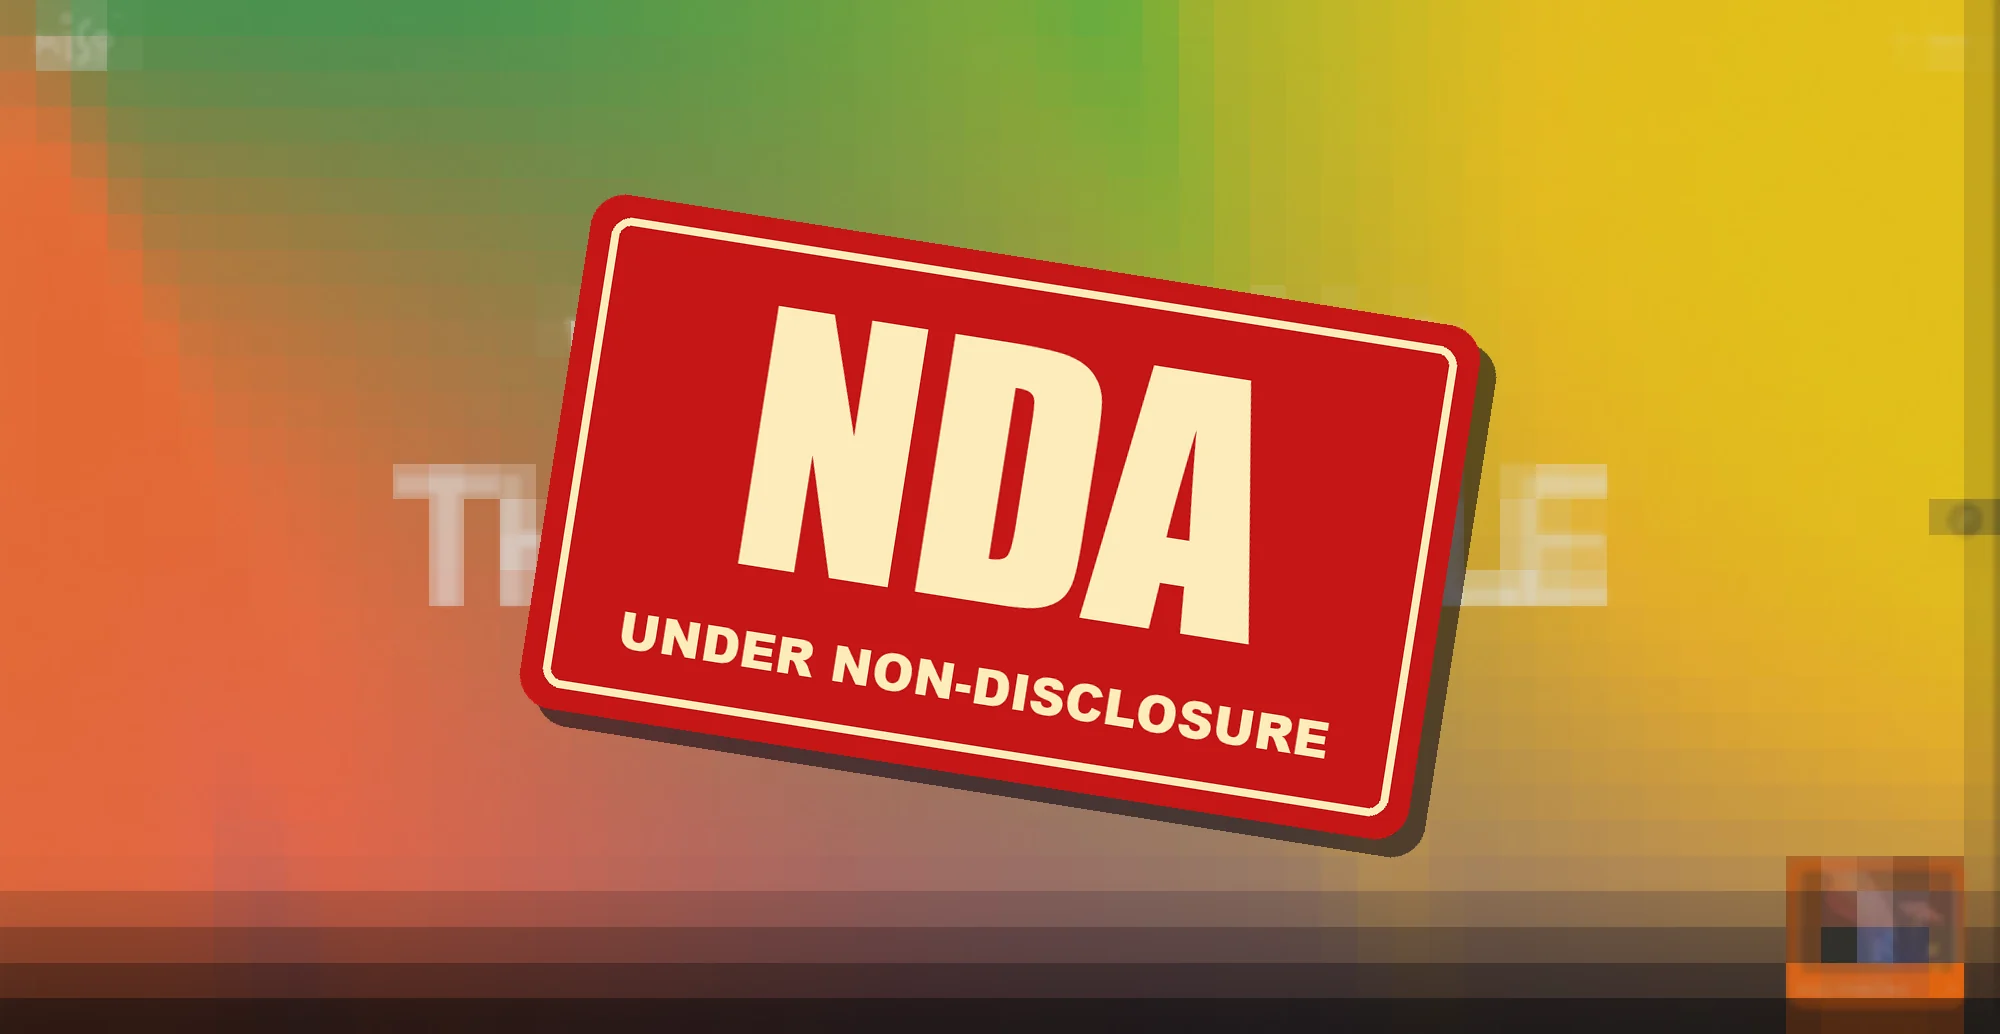
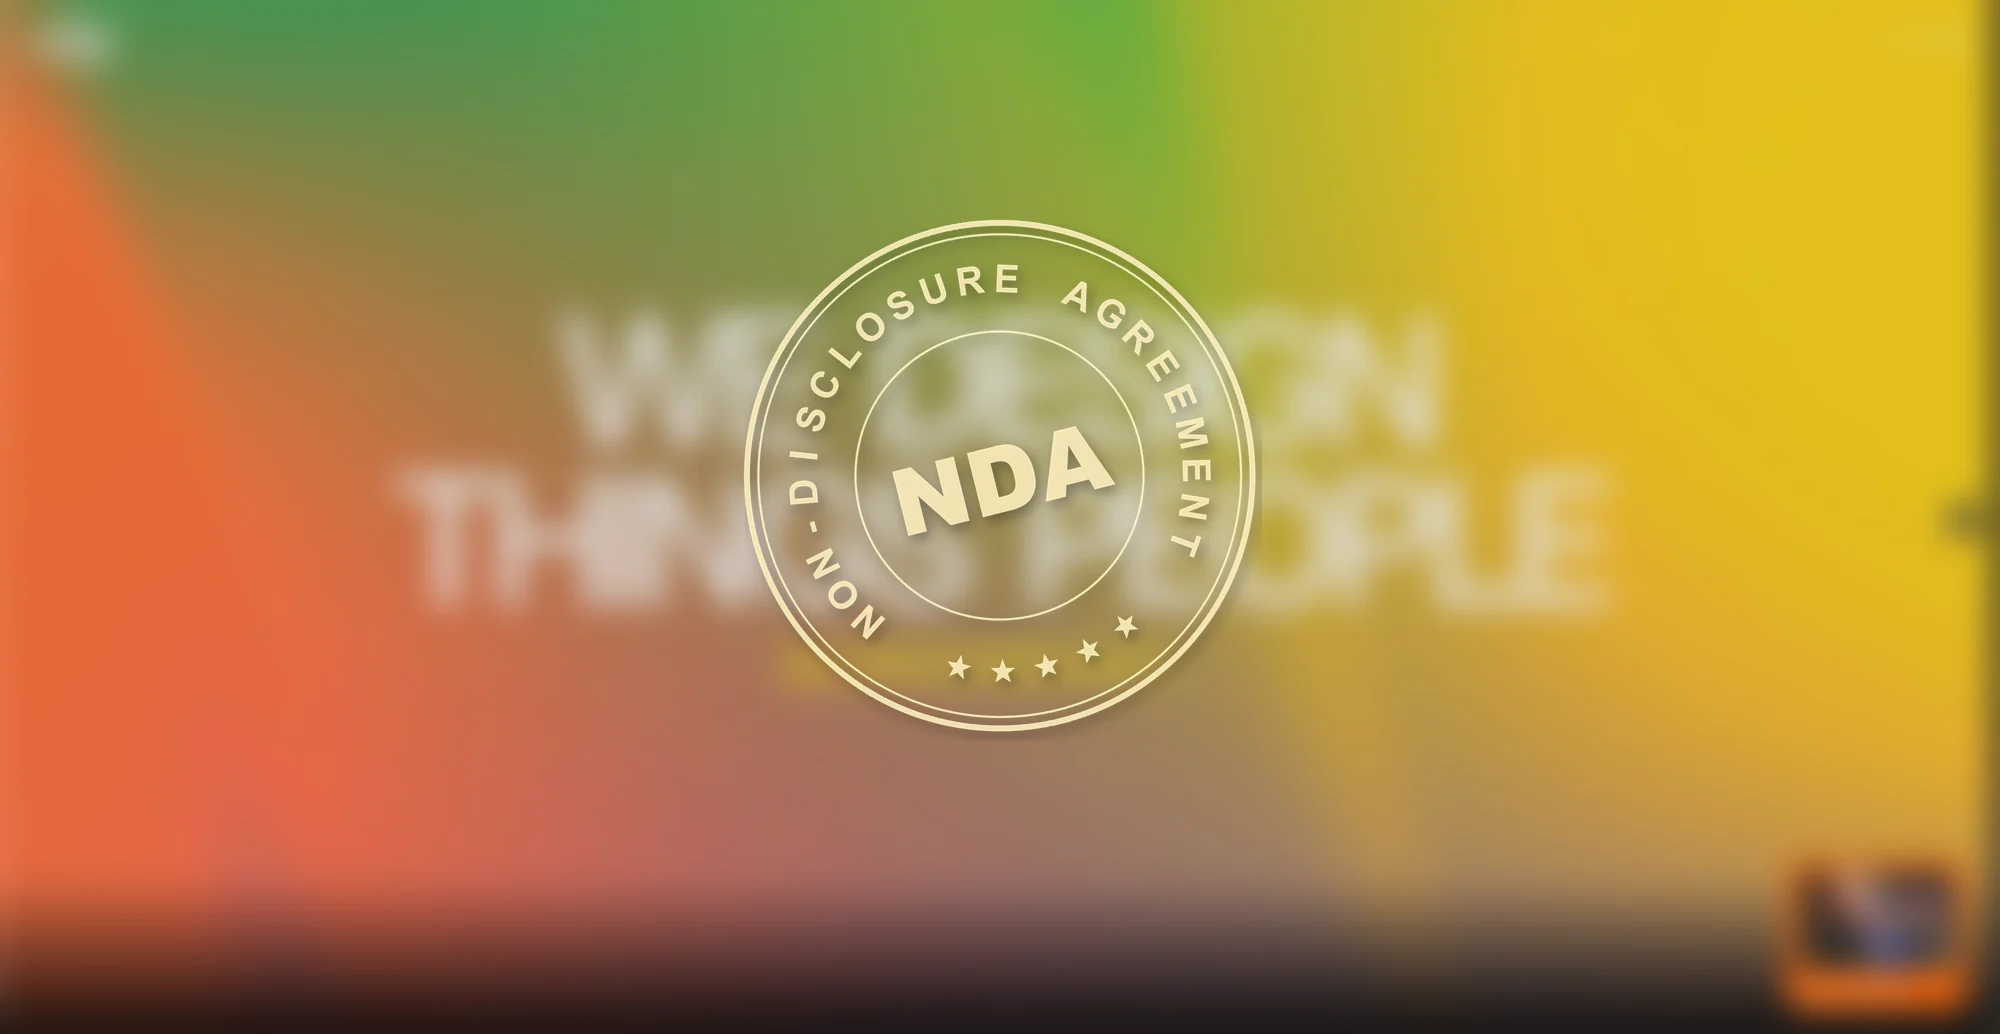
NDA covers: blurred instead of pixelated, with a round cream seal

diff --git a/js/sprite.js b/js/sprite.js
@@ -14,7 +14,7 @@
     // below picks the frames that make two readable steps: stride, back leg lifting, legs passing,
     // reaching out again; then the same with the other arm forward.
     main: {
-      src: "assets/character/main.webp?v=1791397856", cols: 8,
+      src: "assets/character/main.webp?v=1791398054", cols: 8,
       anims: {
         idle: [0], walk: [3, 6, 1, 2, 8, 9, 13, 10],
         front: [14], front34: [15], back: [16], relaxed: [17], stride: [18], wave: [19], cheer: [20], sit: [21],
@@ -22,14 +22,14 @@
     },
     // the drop down the drain: looks down the manhole, steps off, falls, lands, fixes his glasses, grins
     drain: {
-      src: "assets/character/drain.webp?v=1791397856", cols: 8,
+      src: "assets/character/drain.webp?v=1791398054", cols: 8,
       anims: {
         peer: [0, 1, 2], stepoff: [3, 4, 5], fallStart: range(6, 11), fall: range(12, 23), fallEnd: [24, 25],
         land: range(26, 31), smile: [32], glasses: [33], stand: [34], grin: [35],
       },
     },
     // stairs: climbing (0-7) and coming down (8-15); picked by cell, see CLIMB in js/main.js
-    stairs: { src: "assets/character/stairs.webp?v=1791397856", cols: 8, anims: { climb: range(0, 7), descend: range(8, 15) } },
+    stairs: { src: "assets/character/stairs.webp?v=1791398054", cols: 8, anims: { climb: range(0, 7), descend: range(8, 15) } },
   };
   const FPS = { walk: 9, run: 13 };      // walk-cycle frames per second (run = scrolling fast)
   // he rises a little as his legs pass under him: lift per cycle frame, in box units (negative = up)

diff --git a/index.html b/index.html
@@ -10,7 +10,7 @@
   <link rel="preconnect" href="https://api.fontshare.com" />
   <link href="https://api.fontshare.com/v2/css?f[]=satoshi@400,500,700,900&display=swap" rel="stylesheet" />
   <link href="https://fonts.googleapis.com/css2?family=Hind:wght@500;700&display=swap" rel="stylesheet" />
-  <link rel="stylesheet" href="styles.css?v=1791397856" />
+  <link rel="stylesheet" href="styles.css?v=1791398054" />
 </head>
 <body class="ride preloading" data-location="street">
   <!-- preloader: READY? SET... GO! -> logo -> pixel dissolve into the street (js/preloader.js) -->
@@ -38,7 +38,7 @@
     <canvas class="pl-blocks"></canvas>
     <p class="pl-skip">Click or press any key to skip</p>
   </div>
-  <script src="js/preloader.js?v=1791397856"></script>
+  <script src="js/preloader.js?v=1791398054"></script>
   <a class="skip-link" href="#subway">Skip to projects</a>
 
   <!-- HUD: menu, metro route map, skip toggle -->
@@ -280,8 +280,8 @@
   <!-- train wipe used when boarding a project -->
   <div class="train-wipe" aria-hidden="true"><div class="train-car"></div></div>
 
-  <script src="js/data.js?v=1791397856"></script>
-  <script src="js/sprite.js?v=1791397856"></script>
-  <script src="js/main.js?v=1791397856"></script>
+  <script src="js/data.js?v=1791398054"></script>
+  <script src="js/sprite.js?v=1791398054"></script>
+  <script src="js/main.js?v=1791398054"></script>
 </body>
 </html>

diff --git a/project.html b/project.html
@@ -9,7 +9,7 @@
   <link rel="preconnect" href="https://api.fontshare.com" />
   <link href="https://api.fontshare.com/v2/css?f[]=satoshi@400,500,700,900&display=swap" rel="stylesheet" />
   <link href="https://fonts.googleapis.com/css2?family=Hind:wght@500;700&display=swap" rel="stylesheet" />
-  <link rel="stylesheet" href="project.css?v=1791397856" />
+  <link rel="stylesheet" href="project.css?v=1791398054" />
 </head>
 <body>
   <!-- the same bar as the home page: logo, the sections in a capsule, and the Ride | Simple button -->
@@ -62,8 +62,8 @@
 
   <div class="fade" aria-hidden="true"></div>
 
-  <script src="js/data.js?v=1791397856"></script>
-  <script src="js/flow.js?v=1791397856"></script>
+  <script src="js/data.js?v=1791398054"></script>
+  <script src="js/flow.js?v=1791398054"></script>
   <script>
     (function () {
       const list = SITE.projects;

diff --git a/projects.html b/projects.html
@@ -10,7 +10,7 @@
   <link rel="preconnect" href="https://api.fontshare.com" />
   <link href="https://api.fontshare.com/v2/css?f[]=satoshi@400,500,700,900&display=swap" rel="stylesheet" />
   <link href="https://fonts.googleapis.com/css2?family=Hind:wght@500;700&display=swap" rel="stylesheet" />
-  <link rel="stylesheet" href="project.css?v=1791397856" />
+  <link rel="stylesheet" href="project.css?v=1791398054" />
 </head>
 <body class="all">
   <!-- the same bar as the home page: logo, the sections in a capsule, and the Ride | Simple button -->
@@ -45,7 +45,7 @@
 
   <div class="fade" aria-hidden="true"></div>
 
-  <script src="js/data.js?v=1791397856"></script>
+  <script src="js/data.js?v=1791398054"></script>
   <script>
     (function () {
       const S = SITE, $ = (s) => document.querySelector(s);

diff --git a/tools/build_nda.py b/tools/build_nda.py
@@ -1,35 +1,50 @@
 """Covers for projects under NDA -> assets/projects/nda/<id>.webp
 
 usage: build_nda.py <id> <source image>
-The picture is pixelated (so nothing in it can be read) and stamped NDA. Only the result is kept in the
-project: the unpixelated source is never copied in.
+The picture is blurred and stamped with a round NDA seal (drawn here: two rings, NON-DISCLOSURE AGREEMENT
+running round, NDA across the middle at an angle, five stars), in cream so it reads on any cover.
+Only the result is kept in the project: the clean source is never copied in.
 """
-import sys
+import sys, math
 from pathlib import Path
-from PIL import Image, ImageDraw, ImageFont
+from PIL import Image, ImageDraw, ImageFont, ImageFilter
 ROOT = Path(__file__).resolve().parent.parent
 pid, src = sys.argv[1], sys.argv[2]
 im = Image.open(src).convert("RGB")
 W = 2000; im = im.resize((W, round(im.height * W / im.width)), Image.LANCZOS); H = im.height
-BLOCKS = 56                                                   # blocks across: shapes and colour survive, words do not
-small = im.resize((BLOCKS, max(1, round(BLOCKS * H / W))), Image.BOX)
-px = small.resize((W, H), Image.NEAREST)
-out = Image.blend(im.resize((W // 6, H // 6)).resize((W, H), Image.BICUBIC), px, 0.82)      # a touch of the blurred picture softens the grid
-# the stamp: a red plate with NDA cut out in cream, a rule inside its edge, set at an angle
-font = ImageFont.truetype("/System/Library/Fonts/Supplemental/Impact.ttf", 330)
-small_f = ImageFont.truetype("/System/Library/Fonts/Supplemental/Arial Black.ttf", 50)
-pw, ph = 900, 520
-plate = Image.new("RGBA", (pw, ph), (0, 0, 0, 0)); d = ImageDraw.Draw(plate)
-RED, CREAM = (196, 22, 22, 255), (252, 236, 187, 255)
-d.rounded_rectangle((0, 0, pw - 1, ph - 1), 34, fill=RED)
-d.rounded_rectangle((22, 22, pw - 23, ph - 23), 20, outline=CREAM, width=8)
-d.text((pw / 2, 215), "NDA", font=font, fill=CREAM, anchor="mm")
-d.text((pw / 2, 428), "UNDER NON-DISCLOSURE", font=small_f, fill=CREAM, anchor="mm")
-plate = plate.rotate(-9, resample=Image.BICUBIC, expand=True)
-shadow = Image.new("RGBA", plate.size, (0, 0, 0, 0)); shadow.paste((10, 6, 20, 150), mask=plate.split()[3])
-out = out.convert("RGBA")
-x, y = (W - plate.width) // 2, (H - plate.height) // 2
-out.alpha_composite(shadow, (x + 16, y + 18)); out.alpha_composite(plate, (x, y))
+out = im.filter(ImageFilter.GaussianBlur(16)).convert("RGBA")           # soft enough that nothing can be read
+
+INK = (252, 236, 187)
+F = "/System/Library/Fonts/Supplemental/"
+def seal(D=1400):
+    """the seal, drawn large (it is scaled down afterwards for clean edges)"""
+    s = Image.new("RGBA", (D, D), (0, 0, 0, 0)); d = ImageDraw.Draw(s); c = D / 2
+    ring = lambda r, w: d.ellipse((c - r, c - r, c + r, c + r), outline=INK + (255,), width=w)
+    ring(c - 8, 16); ring(c - 44, 6); ring(c * 0.56, 6)
+    # the words, running clockwise round the top; five stars along the bottom
+    f = ImageFont.truetype(F + "Arial Bold.ttf", 104)
+    text, R = "NON-DISCLOSURE AGREEMENT", c * 0.76
+    span = math.radians(248); a0 = -math.pi / 2 - span / 2
+    for k, ch in enumerate(text):
+        a = a0 + span * k / (len(text) - 1)
+        g = Image.new("RGBA", (160, 160), (0, 0, 0, 0)); ImageDraw.Draw(g).text((80, 80), ch, font=f, fill=INK + (255,), anchor="mm")
+        g = g.rotate(-math.degrees(a) - 90, resample=Image.BICUBIC)
+        s.alpha_composite(g, (round(c + R * math.cos(a) - 80), round(c + R * math.sin(a) - 80)))
+    for k in range(5):
+        a = math.pi / 2 + math.radians((k - 2) * 13); x, y = c + R * math.cos(a), c + R * math.sin(a)
+        pts = [(x + (34 if i % 2 == 0 else 14) * math.cos(math.radians(i * 36 - 90) + a - math.pi / 2), y + (34 if i % 2 == 0 else 14) * math.sin(math.radians(i * 36 - 90) + a - math.pi / 2)) for i in range(10)]
+        d.polygon(pts, fill=INK + (255,))
+    # NDA across the middle
+    n = Image.new("RGBA", (D, D), (0, 0, 0, 0))
+    ImageDraw.Draw(n).text((c, c), "NDA", font=ImageFont.truetype(F + "Arial Black.ttf", 250), fill=INK + (255,), anchor="mm")
+    s.alpha_composite(n)
+    return s.rotate(14, resample=Image.BICUBIC)
+
+st = seal(); size = round(H * 0.5); st = st.resize((size, size), Image.LANCZOS)
+st.putalpha(st.split()[3].point(lambda v: int(v * 0.92)))
+shadow = Image.new("RGBA", st.size, (0, 0, 0, 0)); shadow.paste((10, 6, 20, 90), mask=st.split()[3]); shadow = shadow.filter(ImageFilter.GaussianBlur(6))
+x, y = (W - size) // 2, (H - size) // 2 - round(H * 0.04)
+out.alpha_composite(shadow, (x + 4, y + 6)); out.alpha_composite(st, (x, y))
 (ROOT / "assets/projects/nda").mkdir(parents=True, exist_ok=True)
 out.convert("RGB").save(ROOT / f"assets/projects/nda/{pid}.webp", quality=86, method=6)
 print(pid, out.size)
